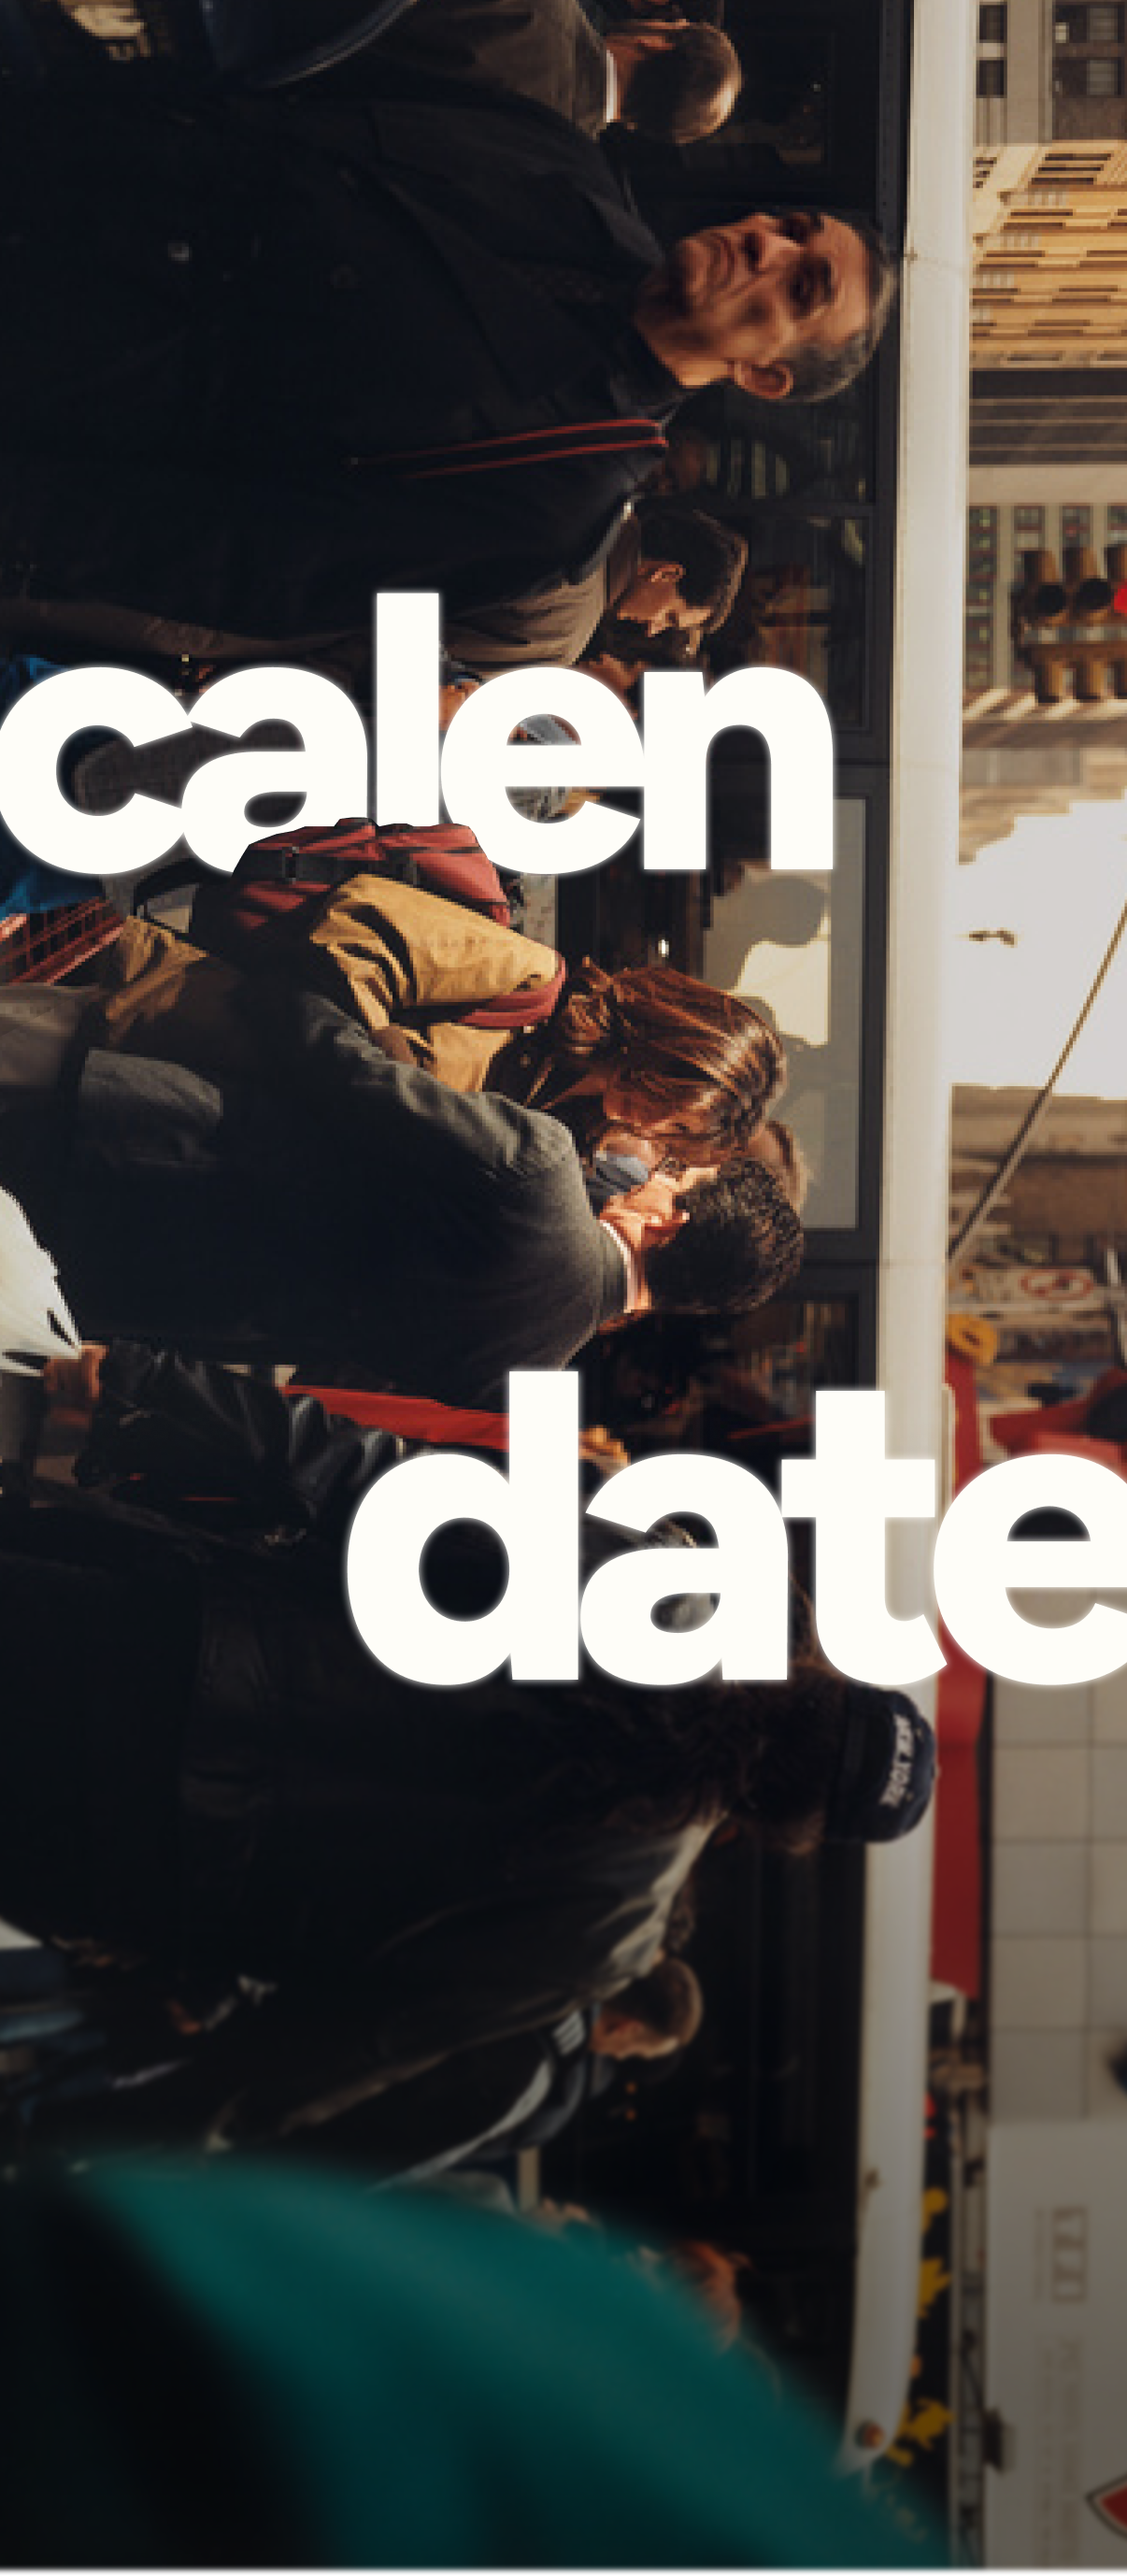
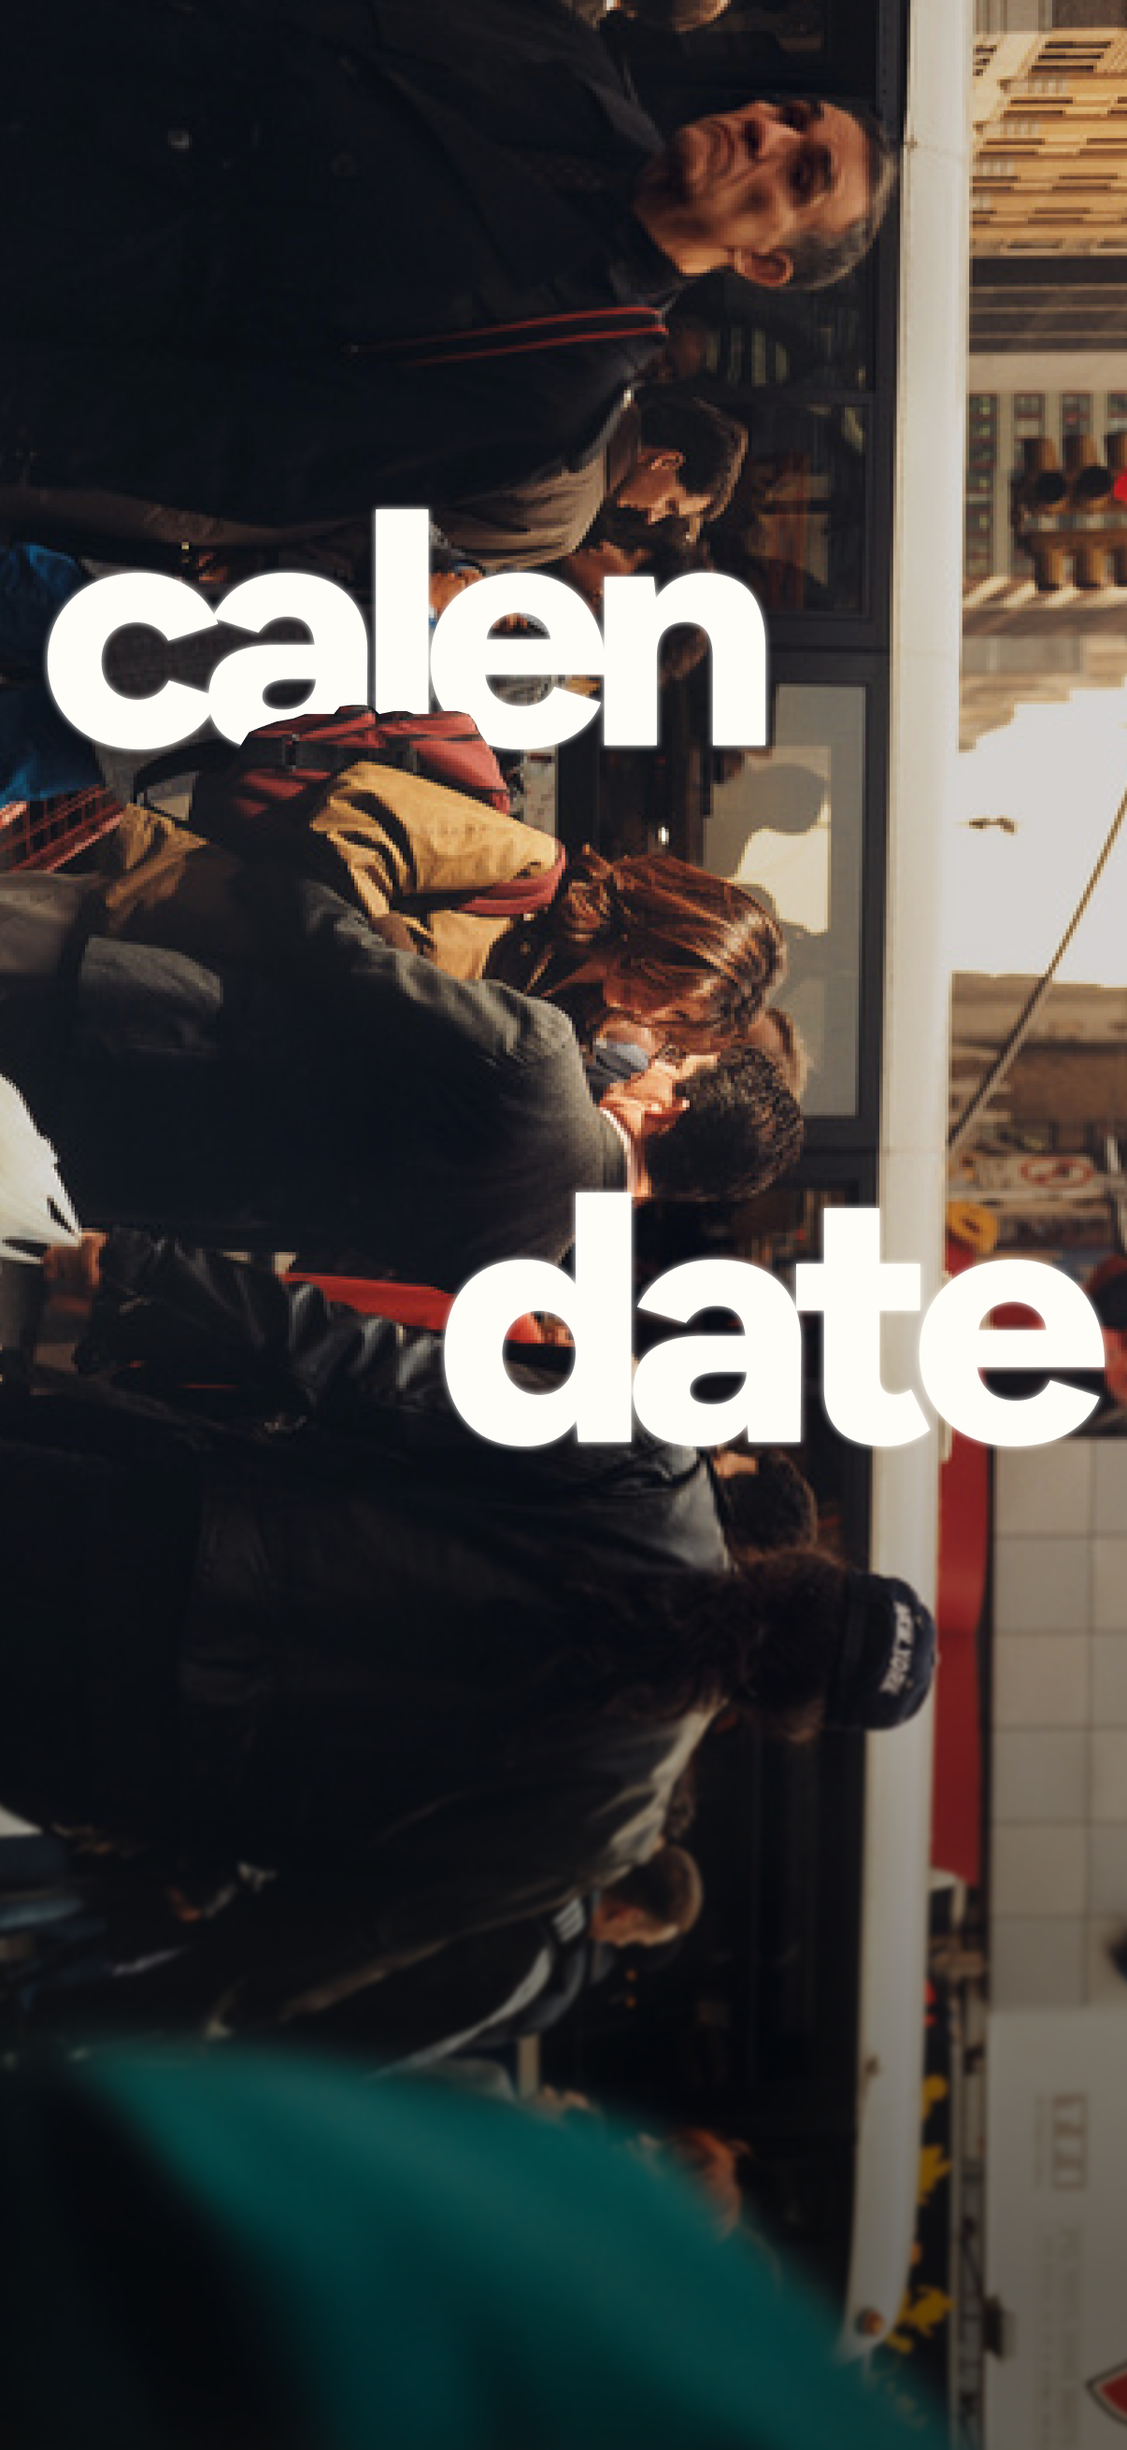
fix image

diff --git a/src/components/HeroSection.tsx b/src/components/HeroSection.tsx
@@ -1,42 +1,97 @@
-import React from "react";
+import React, { useState, useEffect, useRef } from "react";
 import { useRouter } from "next/navigation";
 
 export const HeroSection: React.FC = () => {
   const router = useRouter();
+  const [isDocked, setIsDocked] = useState(true);
+  const placeholderRef = useRef<HTMLDivElement>(null);
+  const ctaRef = useRef<HTMLDivElement>(null);
 
   const handleContinue = () => {
     document.getElementById("feature")?.scrollIntoView({ behavior: "smooth" });
   };
 
+  useEffect(() => {
+    const handleScroll = () => {
+      if (placeholderRef.current) {
+        const placeholderTop =
+          placeholderRef.current.getBoundingClientRect().top;
+        const ctaHeight = ctaRef.current?.offsetHeight || 0;
+
+        if (placeholderTop < window.innerHeight - ctaHeight) {
+          setIsDocked(false);
+        } else {
+          setIsDocked(true);
+        }
+      }
+    };
+
+    window.addEventListener("scroll", handleScroll, { passive: true });
+    handleScroll(); // Initial check
+
+    return () => {
+      window.removeEventListener("scroll", handleScroll);
+    };
+  }, []);
+
+  const CtaButtons = (
+    <>
+      <button
+        onClick={() => router.push("/join-waitlist")}
+        className="bg-[#A30003] gap-3 text-base text-white font-bold w-full leading-[1.4] px-6 py-5 rounded-[100px] border-solid border-[rgba(255,255,255,0.12)] hover:bg-[#8B0002] active:bg-[#B30003] active:scale-95 transition-all"
+      >
+        Join the waitlist
+      </button>
+      <div
+        className="flex w-[53px] flex-col items-stretch text-xs font-medium whitespace-nowrap mt-[29px] cursor-pointer hover:opacity-80 transition-opacity"
+        onClick={handleContinue}
+      >
+        <div>Continue</div>
+        <img
+          src="https://cdn.builder.io/api/v1/image/assets/TEMP/d8186703c0151e8b879d1c0ba9f827ec57a3d9bd?placeholderIfAbsent=true"
+          className="aspect-[0.81] object-contain w-3 fill-white self-center mt-2"
+          alt="Continue arrow"
+        />
+      </div>
+    </>
+  );
+
   return (
-    <section className="flex flex-col relative w-screen h-[960px] text-[#FEFDF8] p-0 m-0 overflow-hidden">
+    <div className="relative w-screen text-[#FEFDF8] overflow-hidden">
       <img
         src="/images/hero.PNG"
-        className="absolute w-screen h-full object-contain inset-0"
+        className="w-full h-auto"
         alt="Hero background"
       />
 
-      <div className="h-full relative flex w-full flex-col items-center justify-end h-full pb-[50px]">
-        <div className="flex flex-col items-center w-3/4">
-          <button
-            onClick={() => router.push("/join-waitlist")}
-            className="bg-[#A30003] gap-3 text-base text-white font-bold w-full leading-[1.4] px-6 py-5 rounded-[100px] border-solid border-[rgba(255,255,255,0.12)] hover:bg-[#8B0002] active:bg-[#B30003] active:scale-95 transition-all"
-          >
-            Join the waitlist
-          </button>
-          <div
-            className="flex w-[53px] flex-col items-stretch text-xs font-medium whitespace-nowrap mt-[29px] cursor-pointer hover:opacity-80 transition-opacity"
-            onClick={handleContinue}
-          >
-            <div>Continue</div>
-            <img
-              src="https://cdn.builder.io/api/v1/image/assets/TEMP/d8186703c0151e8b879d1c0ba9f827ec57a3d9bd?placeholderIfAbsent=true"
-              className="aspect-[0.81] object-contain w-3 fill-white self-center mt-2"
-              alt="Continue arrow"
-            />
-          </div>
+      <div className="absolute inset-0 flex flex-col items-center justify-end pb-[50px]">
+        {/* Placeholder occupies space in the layout */}
+        <div
+          ref={placeholderRef}
+          className={`w-3/4 flex flex-col items-center ${
+            isDocked ? "opacity-0" : "opacity-100"
+          }`}
+        >
+          {CtaButtons}
         </div>
       </div>
-    </section>
+
+      {/* CTA container that is either fixed or part of the layout */}
+      <div
+        ref={ctaRef}
+        className={`w-full flex justify-center transition-all duration-300 ${
+          isDocked ? "fixed bottom-0 z-10 p-4" : "absolute bottom-[50px]"
+        }`}
+        style={!isDocked ? { top: placeholderRef.current?.offsetTop } : {}}
+      >
+        <div
+          className={`w-3/4 flex flex-col items-center ${
+            isDocked ? "" : "opacity-0"
+          }`}
+        >
+          {CtaButtons}
+        </div>
+      </div>
+    </div>
   );
 };
